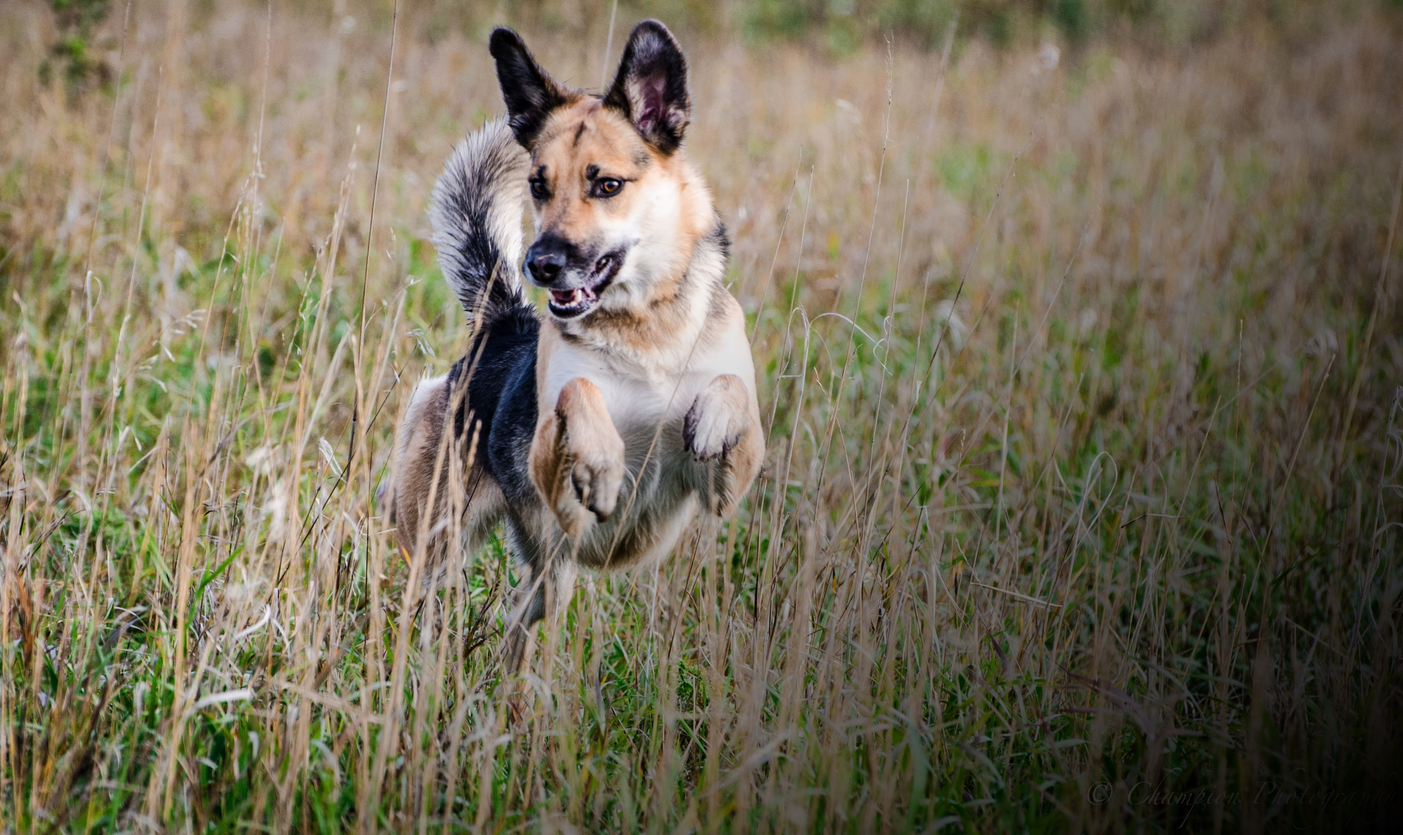
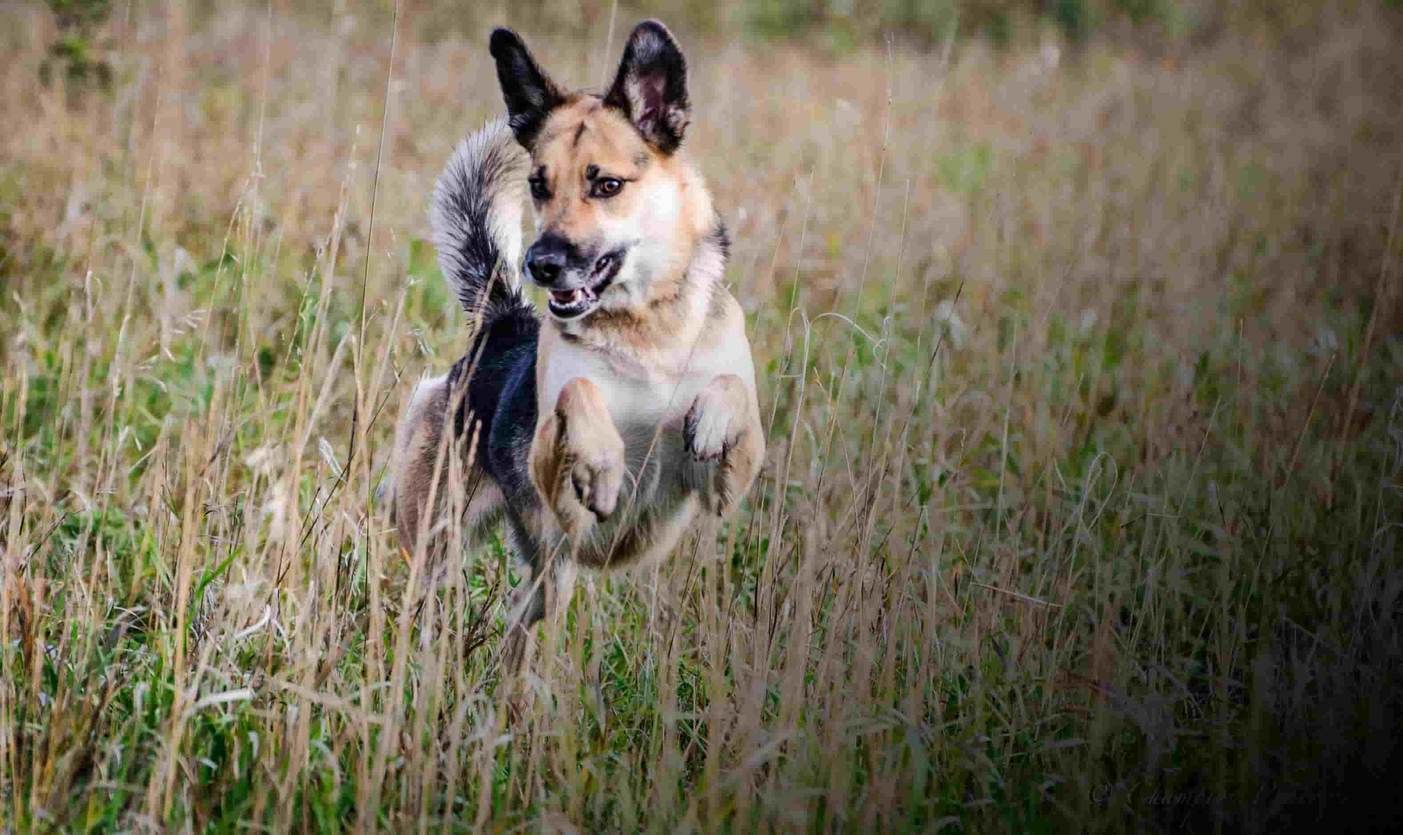
Compressed pictures and router link updates

diff --git a/src/app/website/_reusables/navbar/navbar.component.ts b/src/app/website/_reusables/navbar/navbar.component.ts
@@ -6,6 +6,7 @@ import {
   ElementRef,
 } from "@angular/core";
 import { NgForm, NgModel } from "@angular/forms";
+import { Router } from '@angular/router';
 import { Observable, BehaviorSubject } from "rxjs";
 
 @Component({
@@ -21,9 +22,21 @@ export class NavbarComponent implements OnInit {
   changeText2;
   changeText3;
 
-  constructor() {}
+  constructor(
+    private router: Router
+  ) {}
 
   ngOnInit() {}
+
+  onScroll() {
+    document.body.scrollTop = 0;
+  }
+
+  onDonateClick() {
+    console.log("HHHHHHHHHH")
+    this.onScroll();
+    this.router.navigate(["/public/donatefunds"]);
+  }
 
   //directives for up/down arrows
   onMoreTurn() {

diff --git a/src/app/website/_reusables/navbar/navbar.component.html b/src/app/website/_reusables/navbar/navbar.component.html
@@ -16,7 +16,7 @@
         ><i class="fa fa-2x fa-instagram ml-2 mr-2 social-icon black"></i
       ></a>
 
-      <button class="sm-white-outline-btn btn shadow ml-2 black" routerLink="donatefunds">
+      <button class="sm-white-outline-btn btn shadow ml-2 black"  (click)="onDonateClick()">
         <i class="fa fa-heart-o mr-1" aria-hidden="true"></i>Donate
       </button>
 

diff --git a/src/app/website/_pages/our-partners-page/our-partners-page.component.html b/src/app/website/_pages/our-partners-page/our-partners-page.component.html
@@ -21,7 +21,7 @@
       <div class="col-2">
         <img
           class="shadow rounded"
-          src="../../../../assets/30739643_1625159177568357_892861741640187904_o.png"
+          src="../../../../assets/30739643_1625159177568357_892861741640187904_o.jpg"
           alt="Pet Valu"
         />
       </div>
